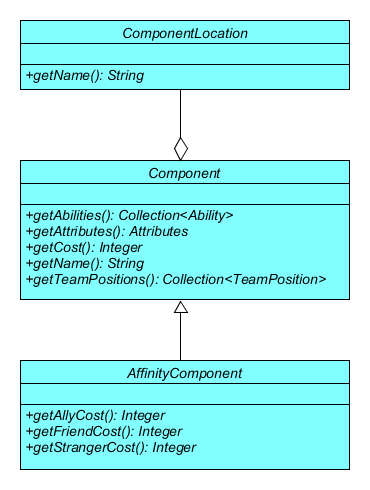
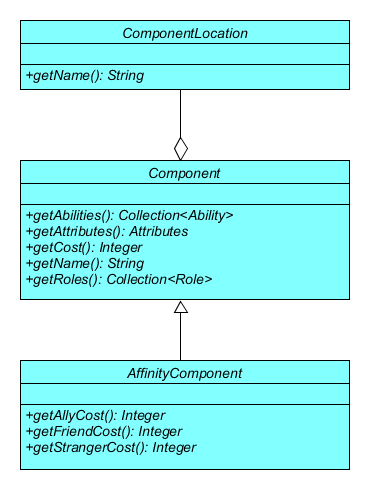
Corrected method name in the Component interface.

Changed region(s): [[0.1486, 0.551, 0.8919, 0.5816]]

diff --git a/src/main/java/com/wandrell/tabletop/dreadball/model/unit/component/Component.java b/src/main/java/com/wandrell/tabletop/dreadball/model/unit/component/Component.java
@@ -84,6 +84,6 @@ public interface Component {
      * 
      * @return the player position roles which this component allows
      */
-    public Collection<Role> getTeamRole();
+    public Collection<Role> getRoles();
 
 }
